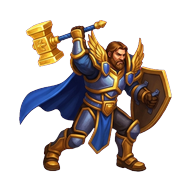
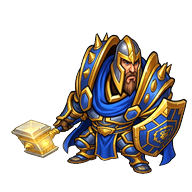
feat: convert in-map heroes to Q-version chibi sprites and fix mobile mini-inv overflow

diff --git a/src/engine/War3Renderer.ts b/src/engine/War3Renderer.ts
@@ -944,7 +944,7 @@ export class War3Renderer {
     }
 
     // 2. Dash / Ghost Afterimages
-    const drawSz = 82 * scale;
+    const drawSz = 90 * scale;
     for (const ghost of h.afterimages) {
       const gKey = `hero_anim_${h.classId}_${ghost.pose}`;
       const gSpr = IconAtlas.getSprite(gKey) || IconAtlas.getSprite(`hero_td_${h.classId}`);

diff --git a/src/ui/style.css b/src/ui/style.css
@@ -957,6 +957,14 @@ body {
   border: 1px solid rgba(148, 163, 184, 0.35);
   background-size: cover;
   background-position: center;
+  overflow: hidden;
+  flex-shrink: 0;
+}
+.hok-inv-dot img {
+  width: 100%;
+  height: 100%;
+  object-fit: cover;
+  display: block;
 }
 .hok-inv-dot.has-item {
   border-color: var(--war3-gold);

diff --git a/scripts/process_assets.py b/scripts/process_assets.py
@@ -1103,6 +1103,181 @@ def build_derived_raster_fx(assets_dir: Path, raw_dir: Path) -> None:
     plaque.save(out("ui_zone_plaque.png"), optimize=True)
 
 
+def _smoothstep(t: float) -> float:
+    t = max(0.0, min(1.0, t))
+    return t * t * (3.0 - 2.0 * t)
+
+
+def _sample_premul_bilinear(spx, cw: int, ch: int, x: float, y: float) -> tuple[int, int, int, int]:
+    if x < 0 or x >= cw - 1 or y < 0 or y >= ch - 1:
+        ix, iy = int(round(x)), int(round(y))
+        if 0 <= ix < cw and 0 <= iy < ch:
+            return spx[ix, iy]
+        return (0, 0, 0, 0)
+    x0, y0 = int(math.floor(x)), int(math.floor(y))
+    fx, fy = x - x0, y - y0
+    c00, c10, c01, c11 = spx[x0, y0], spx[x0 + 1, y0], spx[x0, y0 + 1], spx[x0 + 1, y0 + 1]
+    w00, w10, w01, w11 = (1.0 - fx) * (1.0 - fy), fx * (1.0 - fy), (1.0 - fx) * fy, fx * fy
+    pa = c00[3] * w00 + c10[3] * w10 + c01[3] * w01 + c11[3] * w11
+    if pa < 2.0:
+        return (0, 0, 0, 0)
+    return (
+        min(255, int(round((c00[0] * c00[3] * w00 + c10[0] * c10[3] * w10 + c01[0] * c01[3] * w01 + c11[0] * c11[3] * w11) / pa))),
+        min(255, int(round((c00[1] * c00[3] * w00 + c10[1] * c10[3] * w10 + c01[1] * c01[3] * w01 + c11[1] * c11[3] * w11) / pa))),
+        min(255, int(round((c00[2] * c00[3] * w00 + c10[2] * c10[3] * w10 + c01[2] * c01[3] * w01 + c11[2] * c11[3] * w11) / pa))),
+        min(255, int(round(pa))),
+    )
+
+
+def _render_q_chibi_canvas(
+    raw_cut: Image.Image,
+    head_fx: float,
+    head_fy: float,
+    head_end: float,
+    torso_end: float,
+    head_bulge: float,
+    head_rad: float,
+    pose: str = "idle",
+) -> Image.Image:
+    crop = ImageEnhance.Color(raw_cut.convert("RGBA")).enhance(1.16)
+    cw, ch = crop.size
+    spx = crop.load()
+
+    # True 2.1-head Q-chibi vertical spline: head/shoulders 57%, torso 24%, legs/boots 19%
+    dst_h, dst_t = 0.57, 0.81
+    N = 256
+    slopes = []
+    for i in range(N):
+        v = i / (N - 1)
+        s1 = head_end / dst_h
+        s2 = (torso_end - head_end) / (dst_t - dst_h)
+        s3 = (1.0 - torso_end) / (1.0 - dst_t)
+        w12 = _smoothstep((v - (dst_h - 0.12)) / 0.24)
+        w23 = _smoothstep((v - (dst_t - 0.12)) / 0.24)
+        slopes.append(s1 * (1.0 - w12) + s2 * w12 * (1.0 - w23) + s3 * w23)
+    lut = [0.0]
+    for sl in slopes[1:]:
+        lut.append(lut[-1] + sl)
+    tot = lut[-1]
+    lut = [x / tot for x in lut]
+
+    def map_y(vd: float) -> float:
+        if vd <= 0.0:
+            return vd * (head_end / dst_h)
+        if vd >= 1.0:
+            return 1.0 + (vd - 1.0) * ((1.0 - torso_end) / (1.0 - dst_t))
+        pos = vd * (N - 1)
+        i0 = int(pos)
+        f = pos - i0
+        return lut[i0] * (1.0 - f) + lut[min(N - 1, i0 + 1)] * f
+
+    work = 380
+    win_w, win_h = int(work * 1.62), int(work * 1.28)
+    warped = Image.new("RGBA", (win_w, win_h), (0, 0, 0, 0))
+    wpx = warped.load()
+    hx, hy = head_fx * (cw - 1), head_fy * (ch - 1)
+    rx, ry = head_rad * max(cw, ch), head_rad * 0.94 * max(cw, ch)
+    ox, oy = (win_w - work) * 0.5, (win_h - work) * 0.5
+
+    for yd in range(win_h):
+        vd = (yd - oy) / (work - 1)
+        if vd < -0.15 or vd > 1.15:
+            continue
+        vs = map_y(vd)
+        sy_base = vs * (ch - 1)
+        wb = _smoothstep((vs - (torso_end - 0.18)) / 0.28)
+        wm = 1.20 * (1.0 - wb) + 1.08 * wb
+
+        upper_k = 1.0 - _smoothstep((vd - 0.10) / 0.72)
+        boot_k = _smoothstep((vd - 0.74) / 0.24)
+
+        for xd in range(win_w):
+            ud = (xd - ox) / (work - 1)
+            side_k = _smoothstep((ud - 0.34) / 0.32)  # 0 = left/rear boot, 1 = right/lead boot
+            pose_dx = 0.0
+            pose_dy = 0.0
+            if pose == "walk1":
+                pose_dx = upper_k * (cw * 0.042)
+                pose_dy = boot_k * ((1.0 - side_k) * (ch * 0.055) - side_k * (ch * 0.015))
+            elif pose == "walk2":
+                pose_dx = upper_k * (cw * -0.025)
+                pose_dy = boot_k * (side_k * (ch * 0.055) - (1.0 - side_k) * (ch * 0.015))
+            elif pose == "attack":
+                pose_dx = upper_k * (cw * 0.088)
+                pose_dy = upper_k * (ch * -0.032)
+
+            sx_base = cw * 0.5 + (ud - 0.5) * cw / wm - pose_dx
+            sy_p = sy_base + pose_dy
+            dx, dy = (sx_base - hx) / rx, (sy_p - hy) / ry
+            r2 = dx * dx + dy * dy
+            if r2 < 1.0:
+                w = 0.5 * (1.0 + math.cos(math.pi * math.sqrt(r2)))
+                sk = 1.0 / (1.0 + head_bulge * w)
+                sx, sy = hx + (sx_base - hx) * sk, hy + (sy_p - hy) * sk * 0.94
+            else:
+                sx, sy = sx_base, sy_p
+            if -0.5 <= sx <= cw - 0.5 and -0.5 <= sy <= ch - 0.5:
+                wpx[xd, yd] = _sample_premul_bilinear(spx, cw, ch, sx, sy)
+
+    return warped
+
+
+def process_q_chibi_hero_set(
+    src_raw: str,
+    dst_td: str,
+    dst_anims: list[str],
+    head_fx: float,
+    head_fy: float,
+    head_end: float,
+    torso_end: float,
+    head_bulge: float,
+    head_rad: float,
+    clear_interior_white: bool = False,
+) -> None:
+    """Build Q-chibi hero_td & 4 foot-aligned hero_anim frames directly from hi-res AI artwork."""
+    raw_im = Image.open(src_raw)
+    raw_cut = extract_cutout_rgba(raw_im, clear_interior_white=clear_interior_white)
+
+    idle_canvas = _render_q_chibi_canvas(raw_cut, head_fx, head_fy, head_end, torso_end, head_bulge, head_rad, "idle")
+    wb = idle_canvas.getbbox()
+    if not wb:
+        return
+    # Fixed reference bbox with small motion padding so legs/weapon never recenter across frames
+    pad = 26
+    rx0 = max(0, wb[0] - pad)
+    ry0 = max(0, wb[1] - pad)
+    rx1 = min(idle_canvas.width, wb[2] + pad)
+    ry1 = min(idle_canvas.height, wb[3] + pad)
+    tw, th = rx1 - rx0, ry1 - ry0
+
+    def place_on_square(canvas_im: Image.Image, out_size: int, boost: float = 1.0) -> Image.Image:
+        fig_crop = canvas_im.crop((rx0, ry0, rx1, ry1))
+        # Maintain tight scale vs actual opaque body bounds
+        bw, bh = wb[2] - wb[0], wb[3] - wb[1]
+        fit = min((out_size * 0.89) / max(1, bw), (out_size * 0.85) / max(1, bh))
+        nw = max(1, int(round(tw * fit)))
+        nh = max(1, int(round(th * fit)))
+        resized = fig_crop.resize((nw, nh), Image.Resampling.LANCZOS)
+        if boost != 1.0:
+            resized = ImageEnhance.Brightness(resized).enhance(boost)
+        out = Image.new("RGBA", (out_size, out_size), (0, 0, 0, 0))
+        foot_offset = int(round((ry1 - wb[3]) * fit))
+        px = (out_size - nw) // 2
+        py = int(out_size * 0.91) - (nh - foot_offset)
+        out.paste(resized, (px, py), resized)
+        return out
+
+    ensure_dir(dst_td)
+    place_on_square(idle_canvas, 176).save(dst_td, format="PNG", optimize=True)
+
+    for pose, dst in zip(["idle", "walk1", "walk2", "attack"], dst_anims):
+        ensure_dir(dst)
+        cv = idle_canvas if pose == "idle" else _render_q_chibi_canvas(
+            raw_cut, head_fx, head_fy, head_end, torso_end, head_bulge, head_rad, pose
+        )
+        place_on_square(cv, 192, boost=1.06 if pose == "attack" else 1.0).save(dst, format="PNG", optimize=True)
+
+
 def main() -> None:
     ap = argparse.ArgumentParser()
     ap.add_argument("mode", choices=["tile", "cutout", "sheet_cutout", "sheet_glow", "single_glow", "icon_grid", "banner"])

diff --git a/scripts/build_all_assets.py b/scripts/build_all_assets.py
@@ -16,6 +16,7 @@ from process_assets import (
     process_cutout,
     process_hero_anim_sheet,
     process_icon_grid,
+    process_q_chibi_hero_set,
     process_sheet_cutout,
     process_sheet_glow,
     process_single_glow,
@@ -52,12 +53,11 @@ def main() -> None:
     for t in tiles:
         process_tile(latest(f"tile_{t}_raw"), out(f"tile_{t}.png"), size=256)
 
-    # 3. 5 Hero Portraits (full-bleed square 128x128) & 5 Hero Top-Down Cutouts (176x176)
+    # 3. 5 Hero Portraits (full-bleed square 128x128); Q-chibi map sprites built in section 9
     heroes = ["paladin", "blademaster", "archmage", "ranger", "priest"]
     for h in heroes:
         im = Image.open(latest(f"hero_{h}_raw")).convert("RGB").resize((128, 128), Image.Resampling.LANCZOS)
         im.save(out(f"hero_{h}.png"), format="PNG", optimize=True)
-        process_cutout(latest(f"hero_td_{h}_raw"), out(f"hero_td_{h}.png"), size=176, clear_interior_white=(h == "ranger"))
 
     # 4. 9 Major Bosses (240x240)
     bosses = [
@@ -203,19 +203,48 @@ def main() -> None:
         out("item_ex_ranger.png"), out("item_ex_priest.png"),
     ], cols=2, rows=2, size=112)
 
-    # 9. Hero 2x2 Action Animation Sprite Sheets (20 foot-anchored PNGs) & 5 Splash Key Arts
+    # 9. Q-Version (Chibi 2.1-head) Hero Map Sprites & Action Frames + 5 Splash Key Arts
+    q_specs = {
+        "paladin":     (0.55, 0.25, 0.34, 0.65, 0.56, 0.29),
+        "blademaster": (0.55, 0.37, 0.45, 0.72, 0.60, 0.24),
+        "archmage":    (0.49, 0.28, 0.39, 0.70, 0.56, 0.28),
+        "ranger":      (0.42, 0.28, 0.36, 0.66, 0.46, 0.25),
+        "priest":      (0.53, 0.27, 0.35, 0.68, 0.48, 0.25),
+    }
     for h in heroes:
-        process_hero_anim_sheet(
-            latest(f"hero_anim_{h}_raw"),
-            [
-                out(f"hero_anim_{h}_idle.png"),
-                out(f"hero_anim_{h}_walk1.png"),
-                out(f"hero_anim_{h}_walk2.png"),
-                out(f"hero_anim_{h}_attack.png"),
-            ],
-            size=192,
-            aggressive_magenta=(h == "priest"),
-        )
+        q_raw_matches = sorted(RAW_DIR.glob(f"hero_anim_{h}_q_raw_*.jpg")) + sorted(RAW_DIR.glob(f"hero_anim_{h}_q_raw_*.png"))
+        if q_raw_matches:
+            process_hero_anim_sheet(
+                str(q_raw_matches[-1]),
+                [
+                    out(f"hero_anim_{h}_idle.png"),
+                    out(f"hero_anim_{h}_walk1.png"),
+                    out(f"hero_anim_{h}_walk2.png"),
+                    out(f"hero_anim_{h}_attack.png"),
+                ],
+                size=192,
+                clear_interior_white=(h == "ranger"),
+            )
+            process_cutout(latest(f"hero_td_{h}_raw"), out(f"hero_td_{h}.png"), size=176, clear_interior_white=(h == "ranger"))
+        else:
+            fx, fy, he, te, hb, hr = q_specs[h]
+            process_q_chibi_hero_set(
+                latest(f"hero_td_{h}_raw"),
+                out(f"hero_td_{h}.png"),
+                [
+                    out(f"hero_anim_{h}_idle.png"),
+                    out(f"hero_anim_{h}_walk1.png"),
+                    out(f"hero_anim_{h}_walk2.png"),
+                    out(f"hero_anim_{h}_attack.png"),
+                ],
+                head_fx=fx,
+                head_fy=fy,
+                head_end=he,
+                torso_end=te,
+                head_bulge=hb,
+                head_rad=hr,
+                clear_interior_white=(h == "ranger"),
+            )
         process_splash(latest(f"splash_{h}_raw"), out(f"splash_{h}.jpg"), width=540, height=720)
 
     # 10. UI Stone Panel Texture, Ground Runic Auras, Dust & Derived Slash/Burst/Spark VFX
